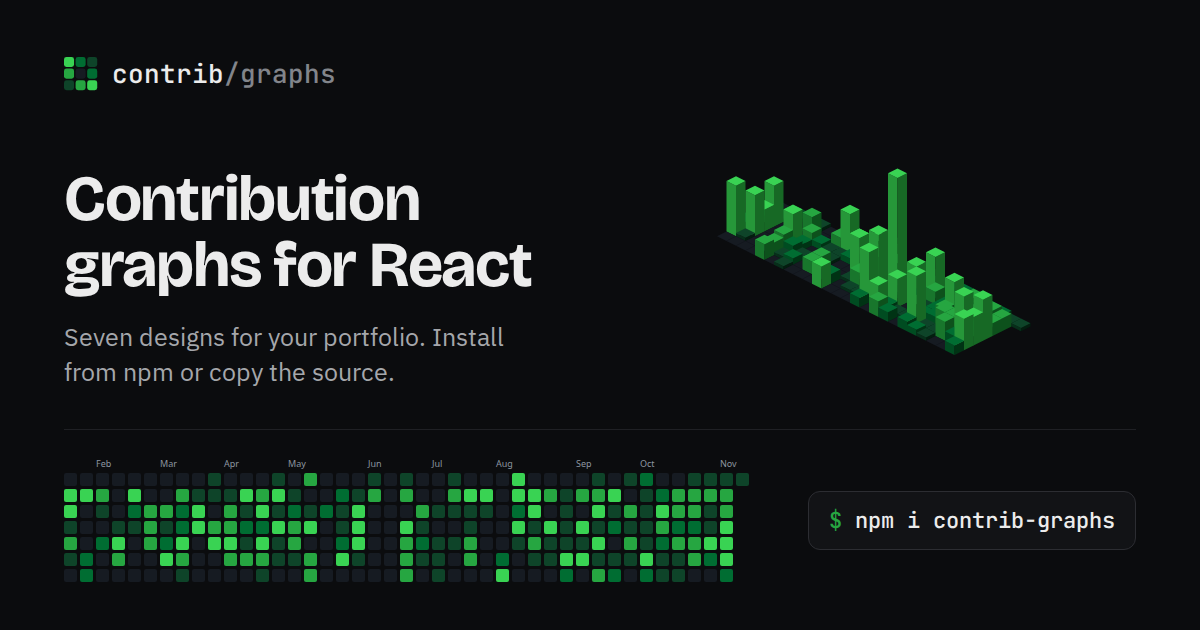
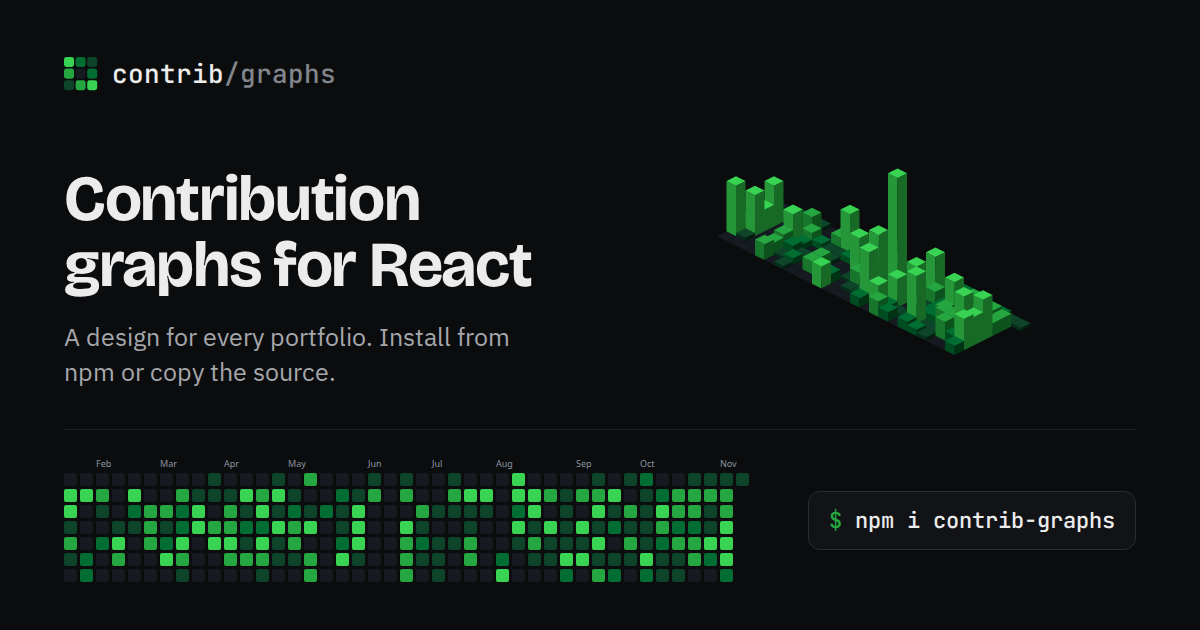
docs: describe the components without counting the designs
The count changed from seven to eleven and would change again with every new design. The README lists the new designs and their registry items.

Changed region(s): [[0.0308, 0.5127, 0.4317, 0.6032]]

diff --git a/apps/site/src/seo.ts b/apps/site/src/seo.ts
@@ -19,15 +19,15 @@ export const routes = ['/', '/docs', '/docs/api', ...variantRoutes.map((v) => `/
 
 const text = {
   en: {
-    home: { title: `${SITE}: contribution graph components for React`, description: 'Seven React components that show your GitHub, GitLab or any other activity as a calendar heatmap. Install them from npm or copy them with the shadcn CLI.' },
+    home: { title: `${SITE}: contribution graph components for React`, description: 'React components that show your GitHub, GitLab or any other activity as a calendar heatmap. Install them from npm or copy them with the shadcn CLI.' },
     docs: { title: `Documentation | ${SITE}`, description: 'Install contrib-graphs, pass your GitHub, GitLab or custom data, and use it in Vite, Next.js or Astro with themes and localization.' },
-    api: { title: `API reference | ${SITE}`, description: 'Every prop of the seven contribution graph components and every function of contrib-graphs/data, generated from the package types.' },
+    api: { title: `API reference | ${SITE}`, description: 'Every prop of the contribution graph components and every function of contrib-graphs/data, generated from the package types.' },
     variant: (name: string) => `${name} | ${SITE}`,
   },
   es: {
-    home: { title: `${SITE}: componentes de contribution graph para React`, description: 'Siete componentes de React que muestran tu actividad de GitHub, GitLab o la que quieras como un calendario. Instálalos desde npm o cópialos con el CLI de shadcn.' },
+    home: { title: `${SITE}: componentes de contribution graph para React`, description: 'Componentes de React que muestran tu actividad de GitHub, GitLab o la que quieras como un calendario. Instálalos desde npm o cópialos con el CLI de shadcn.' },
     docs: { title: `Documentación | ${SITE}`, description: 'Instala contrib-graphs, pásale tus datos de GitHub, GitLab o propios, y úsalo en Vite, Next.js o Astro con temas e idiomas.' },
-    api: { title: `Referencia de la API | ${SITE}`, description: 'Todas las props de los siete componentes de contribution graph y las funciones de contrib-graphs/data, generadas desde los tipos del paquete.' },
+    api: { title: `Referencia de la API | ${SITE}`, description: 'Todas las props de los componentes de contribution graph y las funciones de contrib-graphs/data, generadas desde los tipos del paquete.' },
     variant: (name: string) => `${name} | ${SITE}`,
   },
 }

diff --git a/apps/site/src/messages.ts b/apps/site/src/messages.ts
@@ -47,7 +47,7 @@ const en = {
   code: { copy: 'Copy', copied: 'Copied', packageManager: 'Package manager' },
   hero: {
     title: 'Contribution graphs for your portfolio',
-    lead: 'Seven React components that draw your GitHub, GitLab or any other activity as a calendar. Install them from npm or copy the source into your project. Each one works with a keyboard and a screen reader.',
+    lead: 'React components that draw your GitHub, GitLab or any other activity as a calendar. Install them from npm or copy the source into your project. Each one works with a keyboard and a screen reader.',
     start: 'Read the docs',
     seeVariants: 'See variants',
     realData: 'Real data from',
@@ -121,7 +121,7 @@ const es = {
   code: { copy: 'Copiar', copied: 'Copiado', packageManager: 'Gestor de paquetes' },
   hero: {
     title: 'Contribution graphs para tu portfolio',
-    lead: 'Siete componentes de React que dibujan tu actividad de GitHub, GitLab o lo que quieras medir como un calendario. Instálalos desde npm o copia el código a tu proyecto. Todos se pueden usar con teclado y lector de pantalla.',
+    lead: 'Componentes de React que dibujan tu actividad de GitHub, GitLab o lo que quieras medir como un calendario. Instálalos desde npm o copia el código a tu proyecto. Todos se pueden usar con teclado y lector de pantalla.',
     start: 'Leer la documentación',
     seeVariants: 'Ver variantes',
     realData: 'Datos reales de',

diff --git a/apps/site/index.html b/apps/site/index.html
@@ -5,7 +5,7 @@
     <link rel="icon" type="image/svg+xml" href="/favicon.svg" />
     <meta name="viewport" content="width=device-width, initial-scale=1.0" />
     <title>contrib/graphs</title>
-    <meta name="description" content="Seven React components that show your GitHub, GitLab or any other activity as a calendar heatmap. Install them from npm or copy them with the shadcn CLI." />
+    <meta name="description" content="React components that show your GitHub, GitLab or any other activity as a calendar heatmap. Install them from npm or copy them with the shadcn CLI." />
     <link rel="preconnect" href="https://fonts.googleapis.com" />
     <link rel="preconnect" href="https://fonts.gstatic.com" crossorigin />
     <link

diff --git a/README.md b/README.md
@@ -4,7 +4,7 @@
 
 # contrib/graphs
 
-_Seven React components that draw your GitHub, GitLab or any other activity as a calendar._
+_React components that draw your GitHub, GitLab or any other activity as a calendar._
 
 [Live demo](https://ingfranciscastillo.github.io/contrib-graphs/) • [Features](#features) • [Installation](#installation) • [Usage](#usage) • [Variants](#variants) • [Data sources](#data-sources) • [Next.js and Astro](#nextjs-and-astro) • [Development](#development)
 
@@ -16,7 +16,7 @@ Show your activity on your site or portfolio with a graph that fits its design. 
 
 ## Features
 
-- **Seven designs**: Classic, Dots, Isometric, Terminal, Radial, Skyline and Compact.
+- **Designs**: Classic, Dots, Isometric, Terminal, Radial, Skyline, Compact, Months, Waveform, Stitch and Pulse.
 - **Themes**: six presets with light and dark palettes, or your own theme through an object or CSS variables.
 - **Accessible**: a single tab stop with arrow-key navigation, announced days and a text summary. Respects `prefers-reduced-motion`.
 - **Responsive**: drops the oldest weeks on narrow screens instead of scrolling, or scales to fit.
@@ -50,7 +50,7 @@ import { ClassicGraph } from '@/components/contrib-graphs/variants/GridGraph'
 import '@/components/contrib-graphs/styles.css'
 ```
 
-Items: `classic-graph`, `dots-graph`, `isometric-graph`, `terminal-graph`, `radial-graph`, `skyline-graph`, `compact-graph`, and `contrib-graphs-data` for the data helpers.
+Items: `classic-graph`, `dots-graph`, `isometric-graph`, `terminal-graph`, `radial-graph`, `skyline-graph`, `compact-graph`, `months-graph`, `waveform-graph`, `stitch-graph`, `pulse-graph`, and `contrib-graphs-data` for the data helpers.
 
 > [!NOTE]
 > The shadcn CLI needs a `components.json`. Run `npx shadcn@latest init` first if your project doesn't have one.

diff --git a/packages/contrib-graphs/README.md b/packages/contrib-graphs/README.md
@@ -2,7 +2,7 @@
 
 ![The seven designs and four of the themes in the playground](https://raw.githubusercontent.com/ingfranciscastillo/contrib-graphs/main/docs/images/demo.gif)
 
-Seven React components (Classic, Dots, Isometric, Terminal, Radial, Skyline and Compact) that draw your GitHub, GitLab or any other activity as a calendar. Each one works with a keyboard and a screen reader.
+React components (Classic, Dots, Isometric, Terminal, Radial, Skyline, Compact, Months, Waveform, Stitch and Pulse) that draw your GitHub, GitLab or any other activity as a calendar. Each one works with a keyboard and a screen reader.
 
 ```bash
 npm install contrib-graphs
